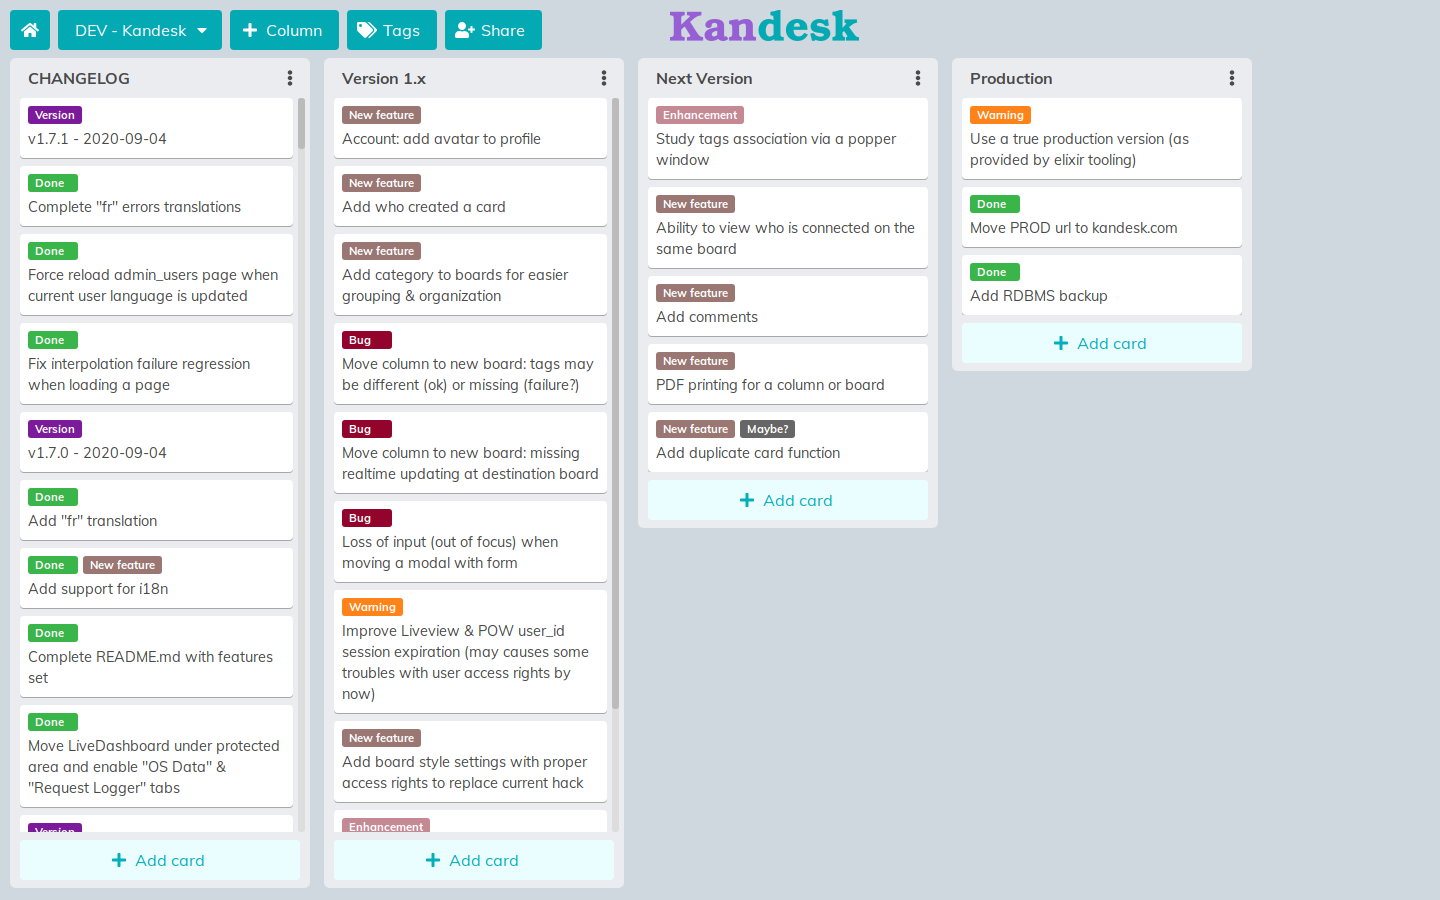
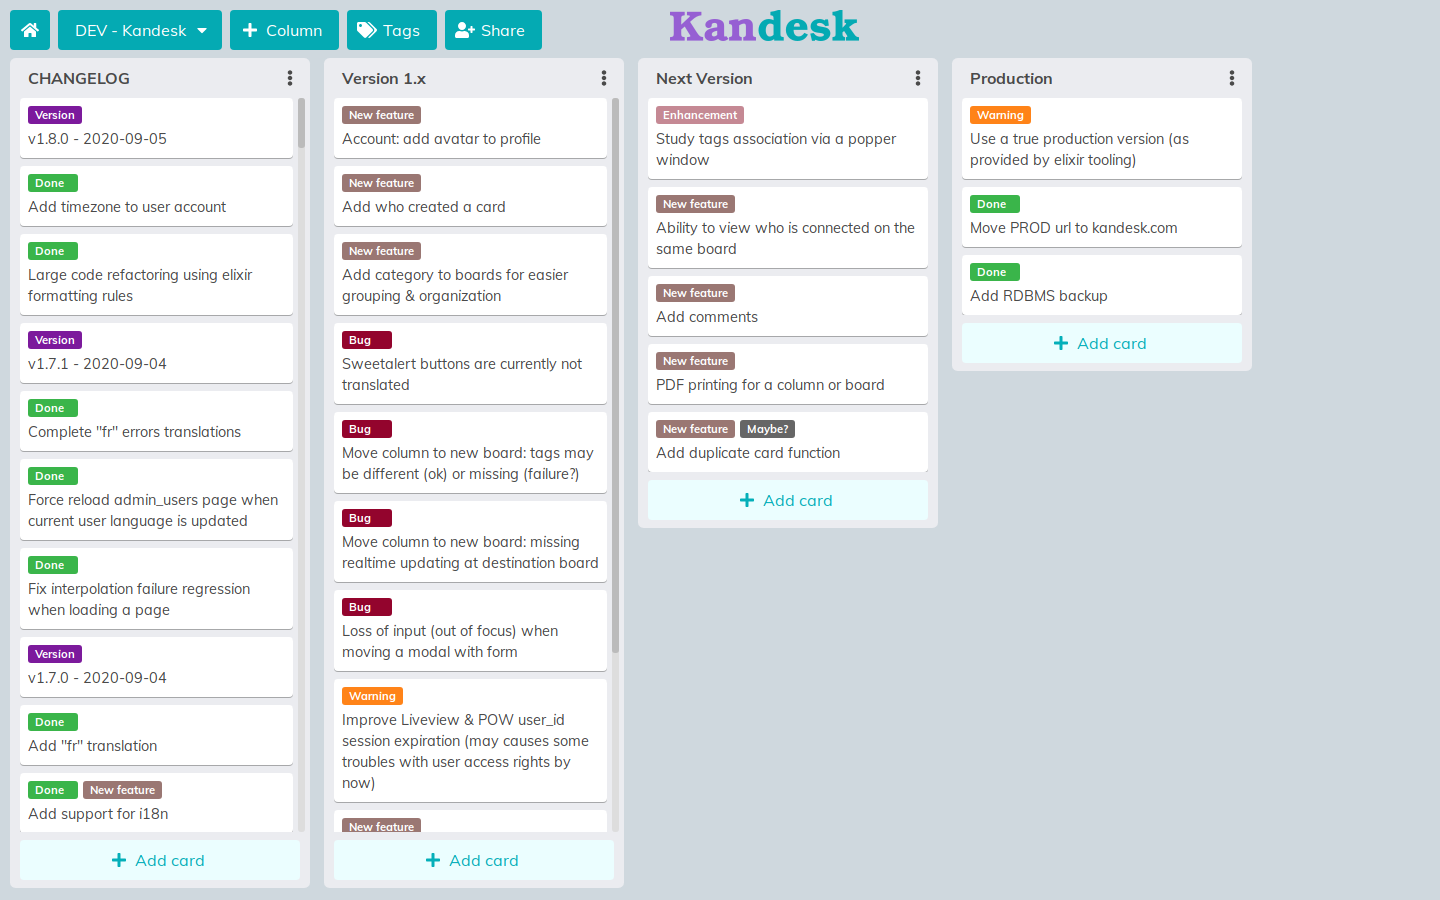
update CHANGELOG.md and kandesk.board.png

diff --git a/CHANGELOG.md b/CHANGELOG.md
@@ -1,3 +1,9 @@
+## v1.8.0 - 2020-09-05
+
+  - Add timezone to user account
+  - Large code refactoring using elixir default formatting rules
+
+
 ## v1.7.1 - 2020-09-04
 
   - Complete "fr" errors translations
